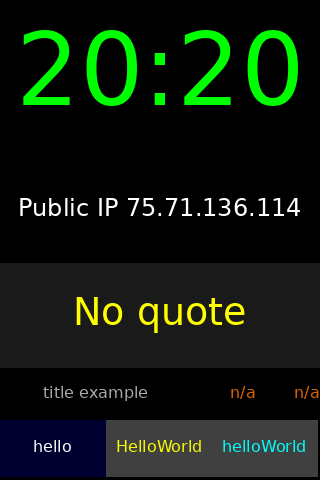
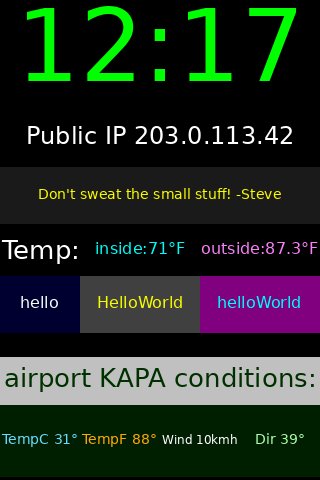
- add "preview_response" for url-fact panels, so that if particular remotes are not available during preview, they can essentially be mocked. - fixed cache behavior of url-fact so that previews actually work with live data - updated url-fact-sample layout with some weather facts - added render-time-

diff --git a/src/clockish/display.py b/src/clockish/display.py
@@ -86,6 +86,7 @@ _parser.add_argument('config', nargs='?', default=None,
 _args          = None
 DEBUG: bool    = False
 DEBUG_LAYOUT: bool = False
+_PREVIEW_MODE: bool = False
 _config: dict  = {}
 _display_cfg: dict = {}
 width: int     = 320
@@ -1240,20 +1241,28 @@ def _init_layout() -> None:
 
     # Stagger the fetch times so they don't all happen at once.
     # If there are N panels with interval I, space them out over the interval.
+    # In preview mode, force immediate expiry so fresh data is fetched right away.
     if url_fact_panels:
         now = time.monotonic()
         for _idx, (_p, _interval_secs) in enumerate(url_fact_panels):
-            # Offset into the interval window so that panel 0 fetches now,
-            # panel 1 fetches after interval/N, etc.
-            if len(url_fact_panels) > 1:
-                _stagger_offset = (_interval_secs * _idx) / len(url_fact_panels)
-            else:
+            if _PREVIEW_MODE:
+                # Preview: force immediate fetch (cache already "expired")
+                _last_fetch_time = 0
                 _stagger_offset = 0
-            # Set last_fetch_time in the past so first fetch happens after stagger delay
+            else:
+                # Live: offset into the interval window so that panel 0 fetches now,
+                # panel 1 fetches after interval/N, etc.
+                if len(url_fact_panels) > 1:
+                    _stagger_offset = (_interval_secs * _idx) / len(url_fact_panels)
+                else:
+                    _stagger_offset = 0
+                # Set last_fetch_time in the past so first fetch happens after stagger delay
+                _last_fetch_time = now - _interval_secs + _stagger_offset
+            # Initialize cache with fallback value; fetch will be triggered on first render
             _cache_key = id(_p)
             _remote_fact_cache[_cache_key] = {
                 'value': _p.get('fallback', 'n/a'),
-                'last_fetch_time': now - _interval_secs + _stagger_offset,
+                'last_fetch_time': _last_fetch_time,
                 'interval_secs': _interval_secs,
             }
             if DEBUG:
@@ -1465,6 +1474,7 @@ def _render_url_fact_panel(p: dict, px: int, py: int, pw: int, ph: int,
     verify_ssl = p.get('verify_ssl', False)
     fallback = p.get('fallback', 'n/a')
     label = p.get('label', '')
+    preview_response = p.get('preview_response')
 
     # Parse interval to seconds
     interval_secs = _parse_interval(interval_str)
@@ -1472,30 +1482,39 @@ def _render_url_fact_panel(p: dict, px: int, py: int, pw: int, ph: int,
     # Generate cache key (use id() of the panel dict as unique ID)
     cache_key = id(p)
 
-    # Check if cache needs refresh (SIGUSR1 was received)
-    if _refresh_remote_cache_flag:
-        _remote_fact_cache.clear()
-        _refresh_remote_cache_flag = False
-
-    # Check cache; fetch if expired
-    now = time.monotonic()
-    if cache_key not in _remote_fact_cache:
-        # First fetch: happens immediately
-        value = _fetch_and_extract(url, pattern, json_path, timeout, verify_ssl, fallback)
-        _remote_fact_cache[cache_key] = {
-            'value': value, 'last_fetch_time': now, 'interval_secs': interval_secs,
-        }
-    else:
-        cache_entry = _remote_fact_cache[cache_key]
-        last_fetch = cache_entry['last_fetch_time']
-        if now - last_fetch >= interval_secs:
-            # Interval expired: fetch fresh value
-            value = _fetch_and_extract(url, pattern, json_path, timeout, verify_ssl, fallback)
-            cache_entry['value'] = value
-            cache_entry['last_fetch_time'] = now
+    # In preview mode, if preview_response is defined, use it instead of fetching
+    if _PREVIEW_MODE and preview_response:
+        if json_path:
+            value, _ = _extract_value_by_json_path(preview_response, json_path)
         else:
-            # Use cached value
-            value = cache_entry['value']
+            value = preview_response
+        if value is None:
+            value = fallback
+    else:
+        # Check if cache needs refresh (SIGUSR1 was received)
+        if _refresh_remote_cache_flag:
+            _remote_fact_cache.clear()
+            _refresh_remote_cache_flag = False
+
+        # Check cache; fetch if expired
+        now = time.monotonic()
+        if cache_key not in _remote_fact_cache:
+            # First fetch: happens immediately
+            value = _fetch_and_extract(url, pattern, json_path, timeout, verify_ssl, fallback)
+            _remote_fact_cache[cache_key] = {
+                'value': value, 'last_fetch_time': now, 'interval_secs': interval_secs,
+            }
+        else:
+            cache_entry = _remote_fact_cache[cache_key]
+            last_fetch = cache_entry['last_fetch_time']
+            if now - last_fetch >= interval_secs:
+                # Interval expired: fetch fresh value
+                value = _fetch_and_extract(url, pattern, json_path, timeout, verify_ssl, fallback)
+                cache_entry['value'] = value
+                cache_entry['last_fetch_time'] = now
+            else:
+                # Use cached value
+                value = cache_entry['value']
 
     # Apply transforms to the raw cached value each render (cheap; lets
     # config edits to 'transform:' take effect without cache invalidation).

diff --git a/src/clockish/render_preview.py b/src/clockish/render_preview.py
@@ -464,9 +464,17 @@ def render_config(config_path: str, out_path: str, mock: bool) -> None:
     # (giant/normal/...) get reloaded fresh, not skipped.
     _ppd._SCALE_FONTS_LOADED = False
 
+    # Clear remote fact cache (url-fact panels) so each config gets fresh data,
+    # not stale cached values from a previous config in the same render batch.
+    _ppd._remote_fact_cache.clear()
+
     _ppd._config = cfg_copy
     # 'config_file' fact source reads _args.config directly.
     _ppd._args.config = config_path
+
+    # Enable preview mode so url-fact panels fetch fresh data immediately
+    # instead of waiting for stagger delays to expire.
+    _ppd._PREVIEW_MODE = True
 
     # Run the real layout pass  --  resolves font: / font_size: auto into
     # row-relative synthetic font entries and pre-computes panel widths,
@@ -513,6 +521,9 @@ def render_config(config_path: str, out_path: str, mock: bool) -> None:
     os.makedirs(os.path.dirname(out_path) or ".", exist_ok=True)
     img.save(out_path)
     print(f"  Saved: {out_path}  ({w}x{h})")
+
+    # Reset preview mode flag for next render
+    _ppd._PREVIEW_MODE = False
 
 
 

diff --git a/tests/test_json_path_extraction.py b/tests/test_json_path_extraction.py
@@ -17,9 +17,9 @@ class TestRootLevelKey:
     """The bug this module guards against: flat top-level JSON, e.g. ipify."""
 
     def test_flat_root_key_extracted_directly(self):
-        response = json.dumps({"ip": "75.71.133.104"})
+        response = json.dumps({"ip": "192.168.84.209"})
         value, missing = _extract_value_by_json_path(response, "ip")
-        assert value == "75.71.133.104"
+        assert value == "192.168.84.209"
         assert missing is False
 
     def test_flat_root_key_numeric_value(self):

diff --git a/src/clockish/config_validator.py b/src/clockish/config_validator.py
@@ -172,7 +172,7 @@ _PANEL_TYPE_ATTRS: dict[str, frozenset[str]] = {
     'url-fact': frozenset({
         'type', 'url', 'pattern', 'json_path', 'interval', 'timeout', 'verify_ssl',
         'fallback', 'label', 'color', 'font', 'font_size', 'font_behavior', 'width',
-        'background', 'justify', 'transform', 'padding',
+        'background', 'justify', 'transform', 'padding', 'preview_response',
     }),
 }
 
